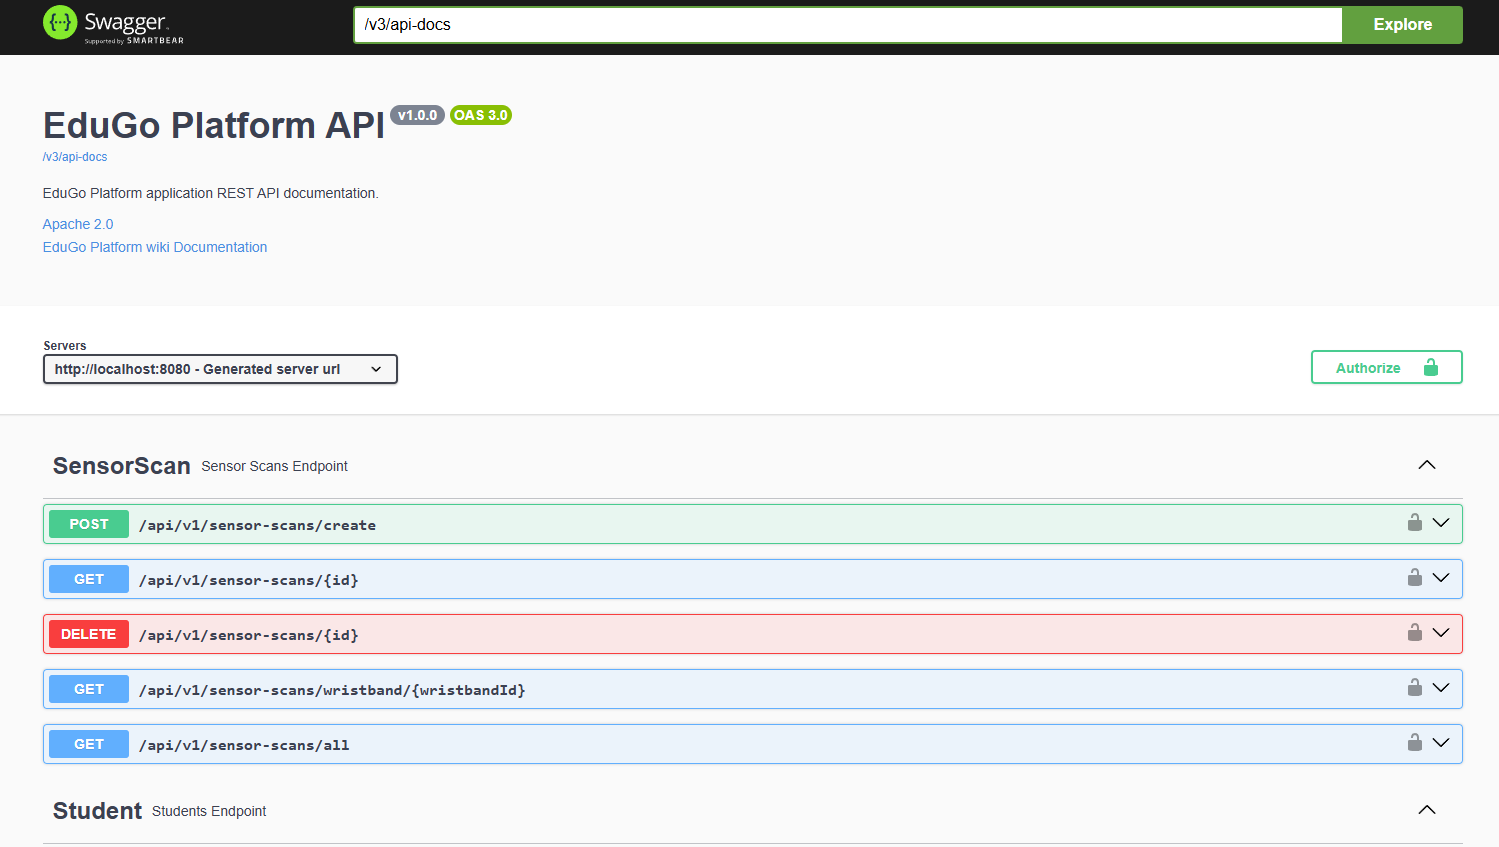
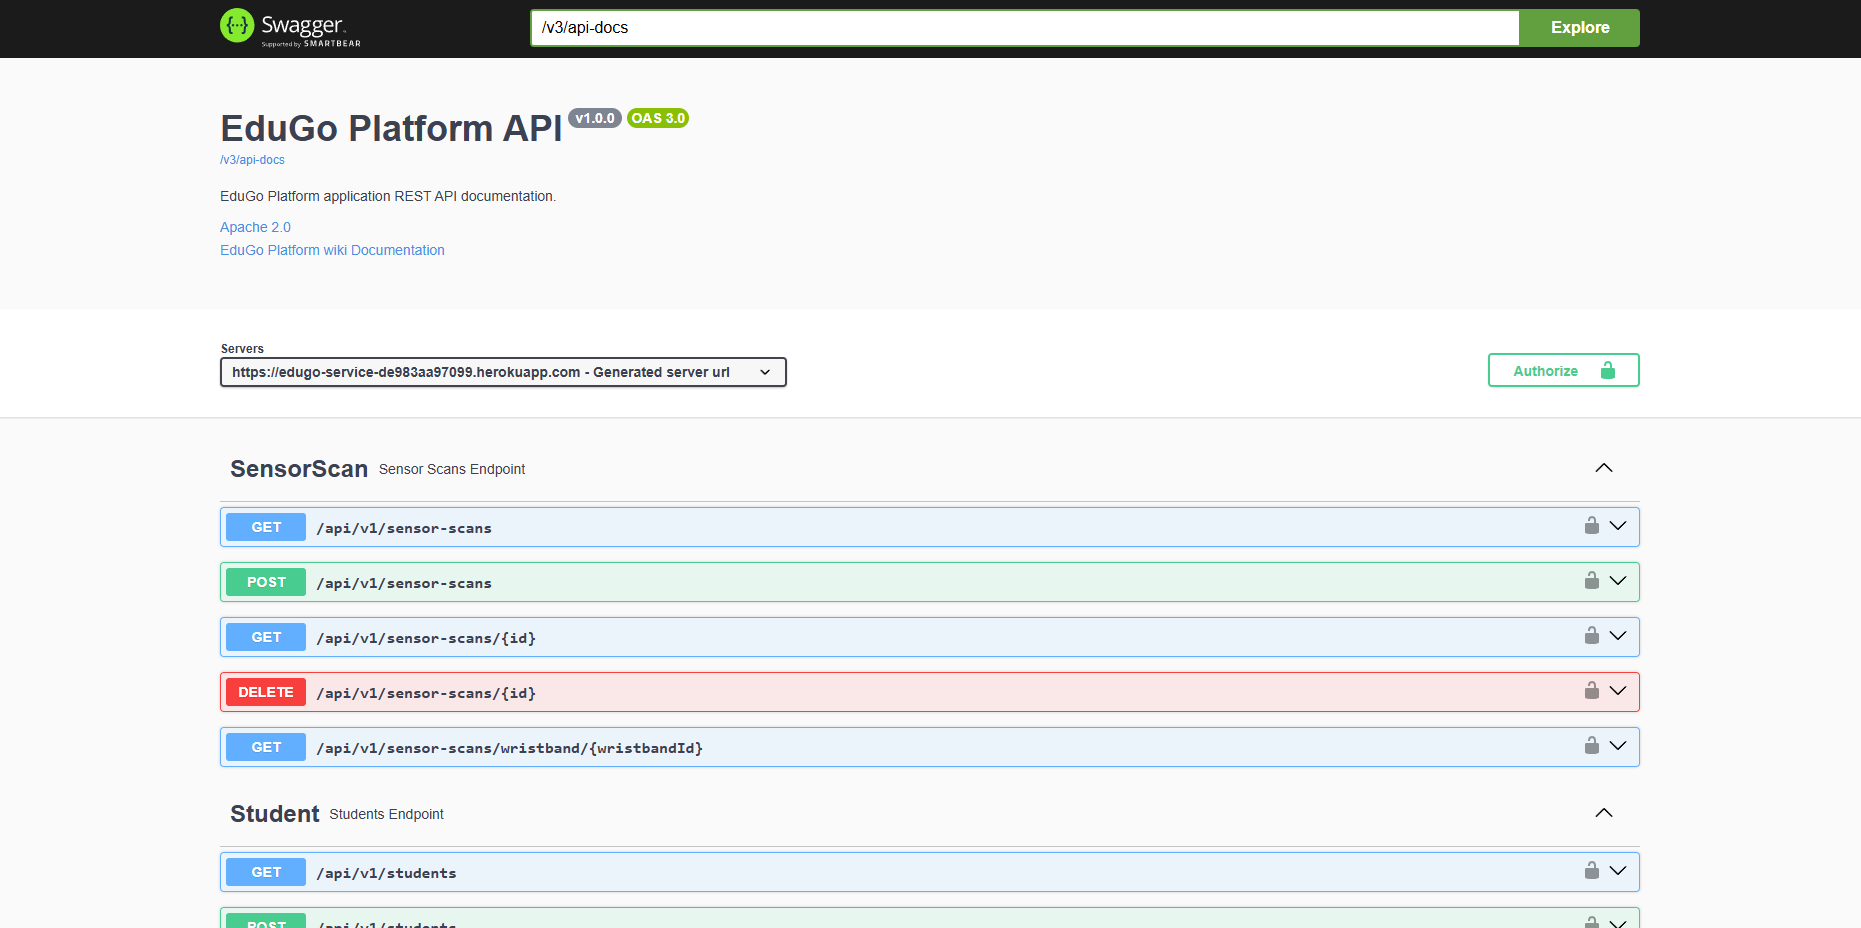
feat(fix): change image & add description

diff --git a/chapter06.md b/chapter06.md
@@ -1195,12 +1195,6 @@ Visualización del frontend desplegado correctamente. <br>
 Enlace al front: 
 <br>
 <br>
-**Para el backend** <br>
-Visualización del backend desplegado correctamente, con acceso a la documentación Swagger. <br>
-<img src="assets/chapter4/ExecutionBackend.PNG" alt="Contact" style="width:100%;"> <br>
-Enlace al backend: https://edugo-service-de983aa97099.herokuapp.com/swagger-ui/index.html
-<br>
-<br>
 **Para el AppMovil** <br>
 Capturas de la aplicación móvil en funcionamiento, mostrando la interfaz para padres y funcionalidades clave.
 <br>
@@ -1219,7 +1213,14 @@ Video demostración: https://shorturl.at/SRwq2
 
 #### 6.5.7. Services Documentation Evidence for Sprint Review.
 
-Durante este ultimo Sprint, se llevó a cabo cambios y mejoras para los servicios del proyecto utilizando el estándar OpenAPI. Como resultado, se logró completar y mejorar el backend con éxito, incluyendo la definición detallada de los Endpoints que conforman la funcionalidad integral de la aplicación web, app movil y edge server.
+Durante este ultimo Sprint, se llevó a cabo cambios y mejoras para los servicios del proyecto utilizando el estándar OpenAPI. Como resultado, se logró completar y mejorar el backend con éxito, incluyendo la definición detallada de los Endpoints que conforman la funcionalidad integral de la aplicación web, app movil y edge server. <br>
+
+Visualización del backend desplegado correctamente, con acceso a la documentación Swagger. <br>
+<img src="assets/chapter4/ExecutionBackend.PNG" alt="Contact" style="width:100%;"> <br>
+Enlace al backend: https://edugo-service-de983aa97099.herokuapp.com/swagger-ui/index.html
+<br>
+
+La siguiente tabla muestra la relación de los Endpoints documentados, las acciones implementadas, los verbos HTTP utilizados y los enlaces a la documentación correspondiente. Para cada acción, se especifican la sintaxis de llamada, los posibles parámetros, ejemplos de requests/responses y una explicación detallada.
 
 ### SensorScan
 
